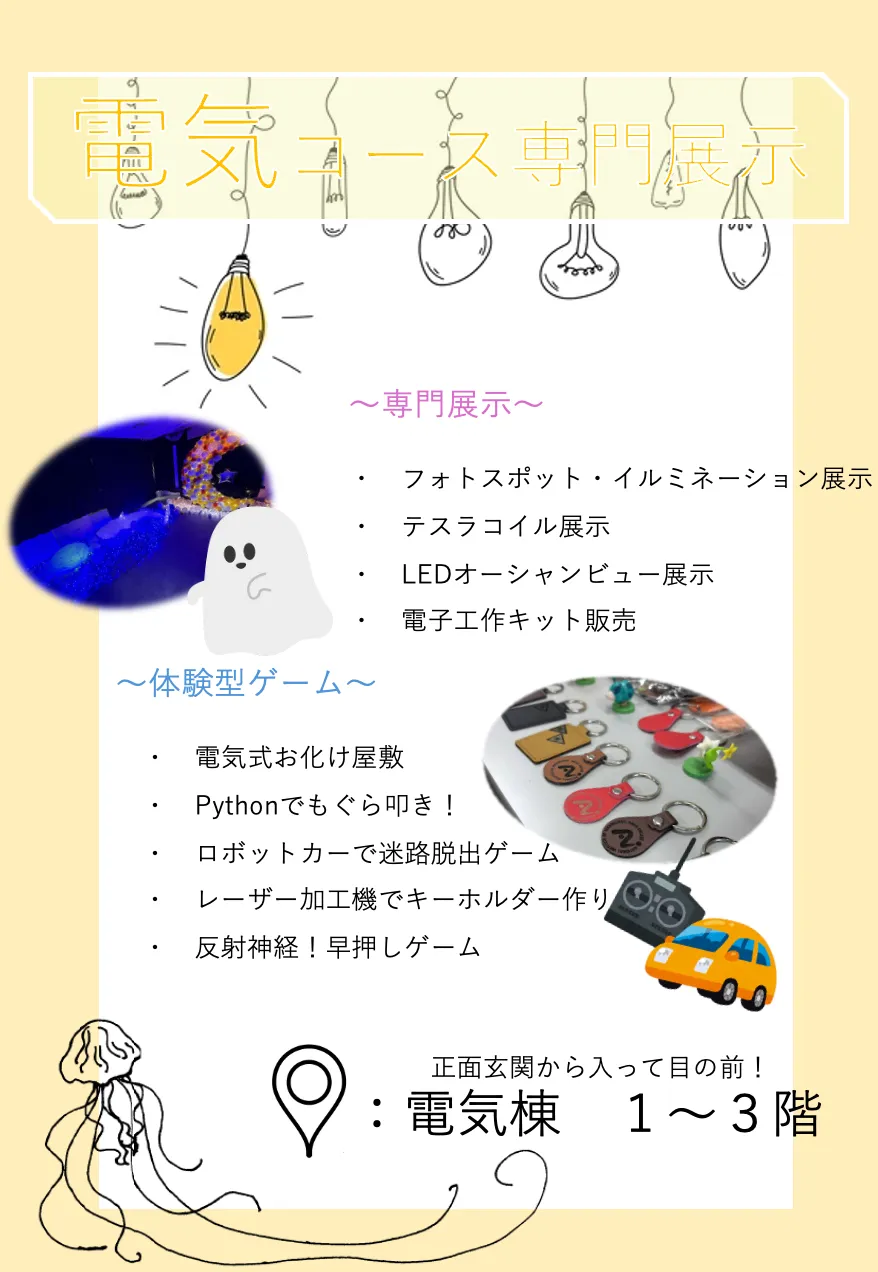
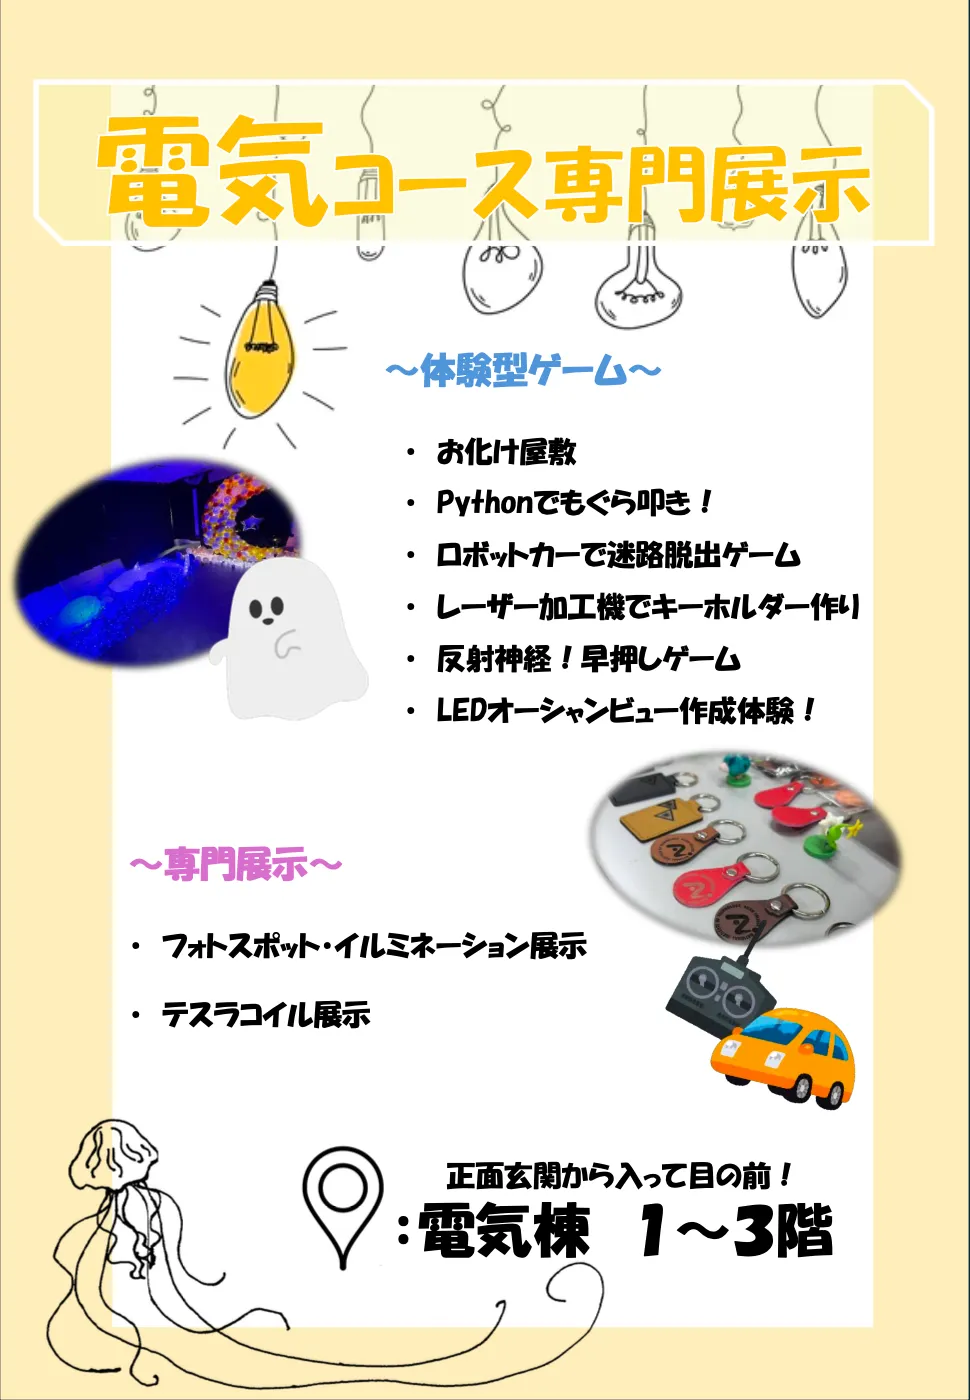
フッター変更、売店のイラスト大きくした

diff --git a/scripts/exhibitions.js b/scripts/exhibitions.js
@@ -18,33 +18,32 @@ const DEFAULT_EXHIBITION_IMAGE = "images/food-baby-castella.png";
 
 const exhibitionItems = [
     //1F
-    { name: "化学専門展示", course: "化学コース", place: "化学実験室", floor: "1F", number: "11", category: "course", image: "../images/exhibitions/z.webp", mapX: 54, mapY: 42 },
-    { name: "機械専門展示", course: "機械コース", place: "3M教室", floor: "1F", number: "21", category: "course", image: "", mapX: 36, mapY: 55 },
-    { name: "機械専門展示", course: "機械コース", place: "4M教室", floor: "1F", number: "31", category: "course", image: "", mapX: 27.5, mapY: 55 },
-    { name: "機械専門展示", course: "機械コース", place: "5M教室", floor: "1F", number: "41", category: "course", image: "", mapX: 19, mapY: 55 },
-    { name: "電気専門展示", course: "電気コース", place: "電気機器Lab", floor: "1F", number: "51", category: "course", image: "../images/exhibitions/e.webp", mapX: 69, mapY: 20 },
-    { name: "プログラミング研究部試遊会", course: "プログラミング研究部", place: "メカトロ電子回路実験室", floor: "1F", number: "61", category: "course", image: "../images/club/puroguraming.webp", mapX: 84, mapY: 82 },
+    { name: "化学専門展示", course: "化学コース", place: "化学実験室", floor: "1F", number: "A03", category: "course", image: "../images/exhibitions/z.webp", mapX: 54, mapY: 42 },
+    { name: "機械専門展示", course: "機械コース", place: "3M教室", floor: "1F", number: "A04", category: "course", image: "", mapX: 36, mapY: 55 },
+    { name: "機械専門展示", course: "機械コース", place: "4M教室", floor: "1F", number: "A04", category: "course", image: "", mapX: 27.5, mapY: 55 },
+    { name: "機械専門展示", course: "機械コース", place: "5M教室", floor: "1F", number: "A04", category: "course", image: "", mapX: 19, mapY: 55 },
+    { name: "電気専門展示", course: "電気コース", place: "電気機器Lab", floor: "1F", number: "E01", category: "course", image: "../images/exhibitions/e.webp", mapX: 69, mapY: 20 },
+    { name: "プログラミング研究部試遊会", course: "プログラミング研究部", place: "メカトロ電子回路実験室", floor: "1F", number: "i01", category: "course", image: "../images/club/puroguraming.webp", mapX: 84, mapY: 82 },
     //2F
-    { name: "軽音学部ライブ", course: "軽音学部", place: "1-1教室", floor: "2F", number: "12", category: "course", image: "../images/club/keion.webp", mapX: 39, mapY: 25 },
-    { name: "軽音学部ライブ", course: "軽音学部", place: "1-2教室", floor: "2F", number: "22", category: "course", image: "../images/club/keion.webp", mapX: 29, mapY: 25 },
-    { name: "電気専門展示", course: "電気コース", place: "2E教室", floor: "2F", number: "32", category: "course", image: "../images/exhibitions/e.webp", mapX: 63, mapY: 14 },
-    { name: "電気専門展示", course: "電気コース", place: "3E教室", floor: "2F", number: "42", category: "course", image: "../images/exhibitions/e.webp", mapX: 71.5, mapY: 14 },
-    { name: "電気専門展示", course: "電気コース", place: "4E教室", floor: "2F", number: "52", category: "course", image: "../images/exhibitions/e.webp", mapX: 80, mapY: 14 },
-    { name: "工作・オーディオ同好会DJライブ", course: "工作・オーディオ同好会", place: "物理実験室", floor: "2F", number: "62", category: "course", image: "../images/club/kousaku.webp", mapX: 54, mapY: 38 },
-    { name: "美術部展示", course: "美術部", place: "2I教室", floor: "2F", number: "82", category: "course", image: "../images/club/bijutu.webp", mapX: 27.5, mapY: 49 },
-    { name: "書道部展示", course: "書道部", place: "2M教室", floor: "2F", number: "92", category: "course", image: "../images/club/shodo.webp", mapX: 21.5, mapY: 46.5 },
-    { name: "写真部展示", course: "写真部", place: "2M教室", floor: "2F", number: "102", category: "course", image: "../images/club/syashin.webp", mapX: 17.5, mapY: 50.5 },
-    { name: "天文愛好会展示", course: "天文愛好会", place: "5Z教室", floor: "2F", number: "122", category: "course", image: "../images/club/tenmon.webp", mapX: 34, mapY: 76 },
-    { name: "落語研究部寄席", course: "落語研究部", place: "4Z教室", floor: "2F", number: "132", category: "course", image: "../images/club/rakugo.webp", mapX: 25, mapY: 76 },
-    { name: "プログラミング研究部試遊会", course: "プログラミング研究部", place: "第3演習室", floor: "2F", number: "142", category: "course", image: "../images/club/puroguraming.webp", mapX: 84, mapY: 76 },
+    { name: "軽音学部ライブ", course: "軽音学部", place: "1-1教室", floor: "2F", number: "B01", category: "course", image: "../images/club/keion.webp", mapX: 39, mapY: 25 },
+    { name: "軽音学部ライブ", course: "軽音学部", place: "1-2教室", floor: "2F", number: "B01", category: "course", image: "../images/club/keion.webp", mapX: 29, mapY: 25 },
+    { name: "電気専門展示", course: "電気コース", place: "2E教室", floor: "2F", number: "E02", category: "course", image: "../images/exhibitions/e.webp", mapX: 63, mapY: 14 },
+    { name: "電気専門展示", course: "電気コース", place: "3E教室", floor: "2F", number: "E02", category: "course", image: "../images/exhibitions/e.webp", mapX: 71.5, mapY: 14 },
+    { name: "電気専門展示", course: "電気コース", place: "4E教室", floor: "2F", number: "E02", category: "course", image: "../images/exhibitions/e.webp", mapX: 80, mapY: 14 },
+    { name: "工作・オーディオ同好会DJライブ", course: "工作・オーディオ同好会", place: "物理実験室", floor: "2F", number: "B02", category: "course", image: "../images/club/kousaku.webp", mapX: 54, mapY: 38 },
+    { name: "美術部展示", course: "美術部", place: "2I教室", floor: "2F", number: "C01", category: "course", image: "../images/club/bijutu.webp", mapX: 27.5, mapY: 49 },
+    { name: "写真部展示", course: "写真部 書道部", place: "2M教室", floor: "2F", number: "C02", category: "course", image: "../images/club/syashin.webp", mapX: 17.5, mapY: 50.5 },
+    { name: "天文愛好会展示", course: "天文愛好会", place: "5Z教室", floor: "2F", number: "D02", category: "course", image: "../images/club/tenmon.webp", mapX: 34, mapY: 76 },
+    { name: "落語研究部寄席", course: "落語研究部", place: "4Z教室", floor: "2F", number: "D03", category: "course", image: "../images/club/rakugo.webp", mapX: 25, mapY: 76 },
+    { name: "プログラミング研究部試遊会", course: "プログラミング研究部", place: "第3演習室", floor: "2F", number: "i02", category: "course", image: "../images/club/puroguraming.webp", mapX: 84, mapY: 76 },
     //3F
-    { name: "ロボット研究部操縦体験", course: "ロボット研究部", place: "1-3教室", floor: "3F", number: "13", category: "course", image: "", mapX: 38.5, mapY: 25 },
-    { name: "ロボット研究部操縦体験", course: "ロボット研究部", place: "1-4教室", floor: "3F", number: "23", category: "course", image: "", mapX: 29, mapY: 25 },
-    { name: "情報専門展示", course: "情報コース", place: "3I教室", floor: "3F", number: "33", category: "course", image: "../images/exhibitions/i.webp", mapX: 19, mapY: 48.5 },
-    { name: "情報専門展示", course: "情報コース", place: "5I教室", floor: "3F", number: "43", category: "course", image: "../images/exhibitions/i.webp", mapX: 27.5, mapY: 48.5 },
-    { name: "情報専門展示", course: "情報コース", place: "中講義室", floor: "3F", number: "53", category: "course", image: "../images/exhibitions/i.webp", mapX: 36, mapY: 48.5 },
-    { name: "建設専門展示", course: "建設コース", place: "3C教室", floor: "3F", number: "63", category: "course", image: "../images/exhibitions/kenchiku.webp", mapX: 34, mapY: 68 },
-    { name: "カラオケ大会", course: "イベント班", place: "大講義室", floor: "3F", number: "73", category: "course", image: "", mapX: 65, mapY: 78 }
+    { name: "ロボット研究部操縦体験", course: "ロボット研究部", place: "1-3教室", floor: "3F", number: "F01", category: "course", image: "", mapX: 38.5, mapY: 25 },
+    { name: "ロボット研究部操縦体験", course: "ロボット研究部", place: "1-4教室", floor: "3F", number: "F01", category: "course", image: "", mapX: 29, mapY: 25 },
+    { name: "情報専門展示", course: "情報コース", place: "3I教室", floor: "3F", number: "G01", category: "course", image: "../images/exhibitions/i.webp", mapX: 19, mapY: 48.5 },
+    { name: "情報専門展示", course: "情報コース", place: "5I教室", floor: "3F", number: "G01", category: "course", image: "../images/exhibitions/i.webp", mapX: 27.5, mapY: 48.5 },
+    { name: "情報専門展示", course: "情報コース", place: "中講義室", floor: "3F", number: "G01", category: "course", image: "../images/exhibitions/i.webp", mapX: 36, mapY: 48.5 },
+    { name: "建設専門展示", course: "建設コース", place: "3C教室", floor: "3F", number: "H01", category: "course", image: "../images/exhibitions/kenchiku.webp", mapX: 34, mapY: 68 },
+    { name: "カラオケ大会", course: "イベント班", place: "大講義室", floor: "3F", number: "H05", category: "course", image: "", mapX: 65, mapY: 78 }
 ];
 
 // ============================================================
@@ -310,7 +309,7 @@ function renderPins() {
         >
             <span class="pin-shape">
                 <span class="pin-inner">
-                    <span class="pin-number">${item.number}</span>
+                    ${(()=>{const m=item.number.match(/^([A-Za-z]+)(\d+)$/);return m?`<span class="pin-letter">${m[1]}</span><span class="pin-digits">${m[2]}</span>`:`<span class="pin-number">${item.number}</span>`;})()}
                 </span>
             </span>
         </button>

diff --git a/scripts/food.js b/scripts/food.js
@@ -28,7 +28,7 @@ const foodItems = [
     { club: "棋道",       name: "アメリカンドッグ",category: "club", image: "images/foods/amerikandog.webp", price: "", detail: "" },
     { club: "野球",       name: "餃子",            category: "club", image: "images/foods/gyoza.webp", price: "", detail: "" },
     { club: "バドミントン",name: "わたあめ",       category: "club", image: "images/foods/wataame.webp", price: "", detail: "" },
-    { club: "陸上",       name: "アイス",          category: "club", image: "images/foods/rikujo.webp", price: "", detail: "" },
+    { club: "陸上",       name: "アイス",          category: "club", image: "images/foods/aisukurimu.webp", price: "", detail: "" },
     { club: "バレー",     name: "ドーナツ",        category: "club", image: "images/foods/donattsu.webp", price: "", detail: "" },
     { club: "ロボ研",     name: "ジュース",        category: "club", image: "images/foods/jusu.webp", price: "", detail: "" },
     { club: "サッカー",   name: "駄菓子",          category: "club", image: "", price: "", detail: "" },
@@ -127,7 +127,7 @@ function renderItems() {
         .filter((item) => !selected.length || selected.includes(item[filterKey]))
         .filter((item) => `${item.name}${item.club}`.toLowerCase().includes(keyword));
 
-    count.textContent = `${visible.length}件の売店`;
+    count.textContent = '';
     if (!visible.length) {
         list.innerHTML = '<p class="food-empty">該当する売店がありません。</p>';
         return;
@@ -135,16 +135,17 @@ function renderItems() {
 
     list.innerHTML = visible.map((item, idx) => `
         <article class="food-card" data-idx="${idx}" tabindex="0" role="button" aria-label="${item.name}の詳細を見る">
-            <div>
-                <h2 class="food-name">${item.name}</h2>
-                <p class="food-club">${item.club}${item.tag ? `<span class="food-badge">${item.tag}</span>` : ""}</p>
-            </div>
             <img
                 class="food-image"
                 src="${resolveImage(item.image)}"
                 alt="${item.name}"
                 onerror="${IMG_ONERROR}"
             >
+            <div class="food-card-body">
+                <p class="food-club">${item.club}${item.tag ? `<span class="food-badge">${item.tag}</span>` : ""}</p>
+                <h2 class="food-name">${item.name}</h2>
+                ${item.price ? `<p class="food-price">${item.price}</p>` : ""}
+            </div>
         </article>
     `).join("");
 

diff --git a/style/food.css b/style/food.css
@@ -1,5 +1,5 @@
 .food-page {
-    width: min(100% - 32px, 520px);
+    width: min(100% - 32px, 640px);
     margin: 0 auto;
     padding: 80px 0 42px;
 }
@@ -122,37 +122,72 @@
 
 .food-list {
     display: grid;
-    gap: 8px;
+    grid-template-columns: 1fr 1fr;
+    gap: 12px;
 }
 
 .food-card {
-    display: grid;
-    grid-template-columns: 1fr 72px;
-    align-items: center;
-    min-height: 76px;
-    padding: 8px 10px 8px 14px;
-    border-radius: 13px;
+    display: flex;
+    flex-direction: column;
+    border-radius: 16px;
     background: #fff;
-    box-shadow: 0 2px 5px rgba(0, 0, 0, .16);
+    box-shadow: 0 2px 8px rgba(0, 0, 0, .14);
     cursor: pointer;
+    overflow: hidden;
     transition: transform 0.12s ease, box-shadow 0.12s ease;
 }
 
 .food-card:hover {
-    transform: translateY(-2px);
-    box-shadow: 0 5px 12px rgba(0, 0, 0, 0.22);
+    transform: translateY(-3px);
+    box-shadow: 0 6px 16px rgba(0, 0, 0, 0.2);
 }
 
-.food-name { margin: 0 0 5px; color: #252525; font-size: .94rem; font-weight: 700; }
-.food-club { margin: 0; color: #444; font-size: .72rem; }
+.food-image {
+    width: 100%;
+    aspect-ratio: 1 / 1;
+    object-fit: cover;
+    background: #fff7f1;
+    display: block;
+}
+
+.food-card-body {
+    padding: 10px 12px 12px;
+}
+
+.food-club {
+    margin: 0 0 3px;
+    color: #00b6c0;
+    font-size: .72rem;
+    font-weight: 600;
+    letter-spacing: 0.03em;
+}
+
+.food-name {
+    margin: 0 0 6px;
+    color: #151515;
+    font-size: .92rem;
+    font-weight: 700;
+    line-height: 1.3;
+}
+
+.food-price {
+    display: inline-block;
+    margin: 0;
+    padding: 2px 10px;
+    background: #ffe86b;
+    border-radius: 20px;
+    color: #151515;
+    font-size: .85rem;
+    font-weight: 700;
+}
+
 .food-badge { display: inline-block; margin-left: 5px; padding: 1px 7px; color: #fff; background: #f05d9d; border-radius: 10px; font-size: .64rem; font-weight: 700; }
-.food-image { width: 64px; height: 64px; object-fit: cover; border-radius: 10px; background: #fff7f1; }
 .food-empty { padding: 24px; color: #fff; text-align: center; }
 .sr-only { position: absolute; width: 1px; height: 1px; padding: 0; overflow: hidden; clip: rect(0, 0, 0, 0); white-space: nowrap; border: 0; }
 
 @media (min-width: 700px) {
     .food-page { padding-top: 100px; }
-    .food-list { grid-template-columns: 1fr 1fr; }
+    .food-list { grid-template-columns: 1fr 1fr 1fr; }
 }
 
 /* ============================================================

diff --git a/access.html b/access.html
@@ -116,8 +116,8 @@
         <div class="menu-overlay" id="menuOverlay">
             <nav class="menu-list">
                 <ul>
-                    <li><a href="index.html">トップ</a></li>
-                    <li><a href="index.html">蒼阿祭について</a></li>
+                    <li><a href="souasai_2026.html">トップ</a></li>
+                    <li><a href="souasai_2026.html">蒼阿祭について</a></li>
                     <li><a href="food.html">売店</a></li>
                     <li><a href="exhibitions.html">展示</a></li>
                     <li><a href="timeschedule.html">タイムスケジュール</a></li>
@@ -174,7 +174,7 @@
         <footer class="site-footer">
             <nav class="footer-links">
                 <ul class="footer-links-col">
-                    <li><a href="index.html">About</a></li>
+                    <li><a href="souasai_2026.html">About</a></li>
                     <li><a href="food.html">Foods</a></li>
                     <li><a href="exhibitions.html">Exhibitions</a></li>
                 </ul>

diff --git a/exhibitions.html b/exhibitions.html
@@ -54,8 +54,8 @@
         <div class="menu-overlay" id="menuOverlay">
             <nav class="menu-list">
             <ul>
-                <li><a href="index.html">トップ</a></li>
-                <li><a href="index.html">蒼阿祭について</a></li>
+                <li><a href="souasai_2026.html">トップ</a></li>
+                <li><a href="souasai_2026.html">蒼阿祭について</a></li>
                 <li><a href="food.html">売店</a></li>
                 <li><a href="exhibitions.html">展示</a></li>
                 <li><a href="timeschedule.html">タイムスケジュール</a></li>
@@ -160,7 +160,7 @@
         <footer class="site-footer">
             <nav class="footer-links">
             <ul class="footer-links-col">
-                <li><a href="index.html">About</a></li>
+                <li><a href="souasai_2026.html">About</a></li>
                 <li><a href="food.html">Foods</a></li>
                 <li><a href="exhibitions.html">Exhibitions</a></li>
             </ul>

diff --git a/food.html b/food.html
@@ -53,8 +53,8 @@
         <div class="menu-overlay" id="menuOverlay">
             <nav class="menu-list">
             <ul>
-                <li><a href="index.html">トップ</a></li>
-                <li><a href="index.html">蒼阿祭について</a></li>
+                <li><a href="souasai_2026.html">トップ</a></li>
+                <li><a href="souasai_2026.html">蒼阿祭について</a></li>
                 <li><a href="food.html">売店</a></li>
                 <li><a href="exhibitions.html">展示</a></li>
                 <li><a href="timeschedule.html">タイムスケジュール</a></li>
@@ -114,7 +114,7 @@
         <footer class="site-footer">
             <nav class="footer-links">
             <ul class="footer-links-col">
-                <li><a href="index.html">About</a></li>
+                <li><a href="souasai_2026.html">About</a></li>
                 <li><a href="food.html">Foods</a></li>
                 <li><a href="exhibitions.html">Exhibitions</a></li>
             </ul>

diff --git a/stamprally.html b/stamprally.html
@@ -53,8 +53,8 @@
         <div class="menu-overlay" id="menuOverlay">
             <nav class="menu-list">
             <ul>
-                <li><a href="index.html">トップ</a></li>
-                <li><a href="index.html">蒼阿祭について</a></li>
+                <li><a href="souasai_2026.html">トップ</a></li>
+                <li><a href="souasai_2026.html">蒼阿祭について</a></li>
                 <li><a href="food.html">売店</a></li>
                 <li><a href="exhibitions.html">展示</a></li>
                 <li><a href="timeschedule.html">タイムスケジュール</a></li>
@@ -147,7 +147,7 @@
         <footer class="site-footer">
             <nav class="footer-links">
             <ul class="footer-links-col">
-                <li><a href="index.html">About</a></li>
+                <li><a href="souasai_2026.html">About</a></li>
                 <li><a href="food.html">Foods</a></li>
                 <li><a href="exhibitions.html">Exhibitions</a></li>
             </ul>

diff --git a/timeschedule.html b/timeschedule.html
@@ -219,8 +219,8 @@
     <div class="menu-overlay" id="menuOverlay">
         <nav class="menu-list">
             <ul>
-                <li><a href="index.html">トップ</a></li>
-                <li><a href="index.html">蒼阿祭について</a></li>
+                <li><a href="souasai_2026.html">トップ</a></li>
+                <li><a href="souasai_2026.html">蒼阿祭について</a></li>
                 <li><a href="food.html">売店</a></li>
                 <li><a href="exhibitions.html">展示</a></li>
                 <li><a href="timeschedule.html">タイムスケジュール</a></li>
@@ -321,7 +321,7 @@
     <footer class="site-footer">
         <nav class="footer-links">
             <ul class="footer-links-col">
-                <li><a href="index.html">About</a></li>
+                <li><a href="souasai_2026.html">About</a></li>
                 <li><a href="food.html">Foods</a></li>
                 <li><a href="exhibitions.html">Exhibitions</a></li>
             </ul>

diff --git a/souasai_2026.html b/souasai_2026.html
@@ -34,8 +34,8 @@
     <div class="menu-overlay" id="menuOverlay">
         <nav class="menu-list">
             <ul>
-                <li><a href="index.html">トップ</a></li>
-                <li><a href="index.html">蒼阿祭について</a></li>
+                <li><a href="souasai_2026.html">トップ</a></li>
+                <li><a href="souasai_2026.html">蒼阿祭について</a></li>
                 <li><a href="food.html">売店</a></li>
                 <li><a href="exhibitions.html">展示</a></li>
                 <li><a href="timeschedule.html">タイムスケジュール</a></li>
@@ -128,7 +128,7 @@
     <footer class="site-footer">
         <nav class="footer-links">
             <ul class="footer-links-col">
-                <li><a href="index.html">About</a></li>
+                <li><a href="souasai_2026.html">About</a></li>
                 <li><a href="food.html">Foods</a></li>
                 <li><a href="exhibitions.html">Exhibitions</a></li>
             </ul>

diff --git a/stamp.html b/stamp.html
@@ -29,7 +29,7 @@
     <div class="menu-overlay" id="menuOverlay">
         <nav class="menu-list">
             <ul>
-                <li><a href="index.html">トップ</a></li>
+                <li><a href="souasai_2026.html">トップ</a></li>
                 <li><a href="#">蒼阿祭について</a></li>
                 <li><a href="#">売店</a></li>
                 <li><a href="#">展示</a></li>

diff --git a/style/exhibitions.css b/style/exhibitions.css
@@ -284,7 +284,7 @@
     font-size: 7px;
     font-weight: bold;
     line-height: 1;
-    margin-bottom: -2px;
+    margin-bottom: -1px;
 }
 
 /* 数字（下段・新形式） */
